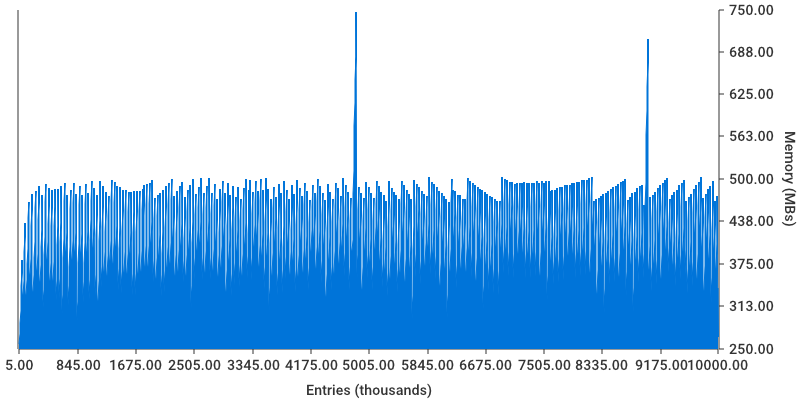
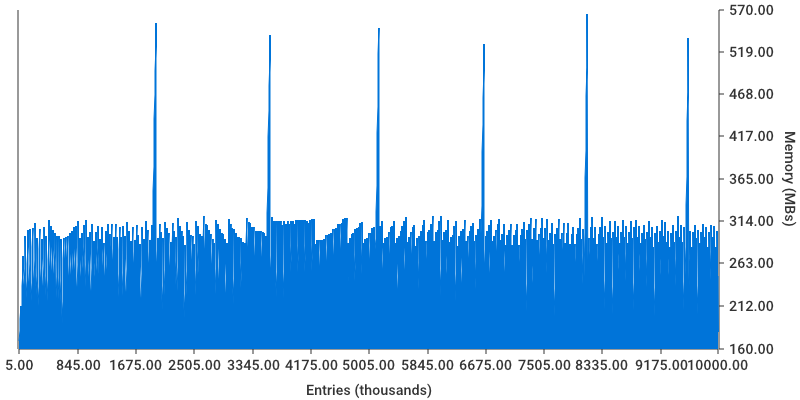
Flush at higher intervals

diff --git a/tree_test.go b/tree_test.go
@@ -395,10 +395,22 @@ func BenchmarkPeriodicWrites500Commit40000(b *testing.B) {
 	benchmarkCommitPersistent(b, NewFlushTreeFromTree(tree, 500), 40000)
 }
 
+func BenchmarkPeriodicWrites2000Commit44000(b *testing.B) {
+	tree, closer := setupFullTreeP(b, 0)
+	defer closer()
+	benchmarkCommitPersistent(b, NewFlushTreeFromTree(tree, 2000), 44000)
+}
+
 func BenchmarkPeriodicWrites500Commit5000(b *testing.B) {
 	tree, closer := setupFullTreeP(b, 0)
 	defer closer()
 	benchmarkCommitPersistent(b, NewFlushTreeFromTree(tree, 500), 5000)
+}
+
+func BenchmarkPeriodicWrites1000Commit5000(b *testing.B) {
+	tree, closer := setupFullTreeP(b, 0)
+	defer closer()
+	benchmarkCommitPersistent(b, NewFlushTreeFromTree(tree, 1000), 5000)
 }
 
 func BenchmarkInit100000Block100(b *testing.B) {

diff --git a/store/store.go b/store/store.go
@@ -65,7 +65,7 @@ func NewFileStoreSize(path string, fileSize uint64) (*FileStore, error) {
 		dirtyValueOffset: &Offset{maxFileSize: fileSize},
 		versionOffset:    &Offset{maxFileSize: fileSize},
 		trees:            newGroup(treePrefix, dir, fileSize, 128<<20, true),
-		values:           newGroup(valuePrefix, dir, fileSize, 128<<20, false),
+		values:           newGroup(valuePrefix, dir, fileSize, 32<<20, false),
 	}
 	return store, nil
 }

diff --git a/store/cache.go b/store/cache.go
@@ -44,7 +44,9 @@ func (oc *offsetCache) ReadAt(buf []byte, off int64) (int, error) {
 			return c.ReadAt(buf, off)
 		}
 	}
-	oc.miss++
+	if len(oc.chunks) != 0 {
+		oc.miss++
+	}
 	return 0, nil
 }
 
